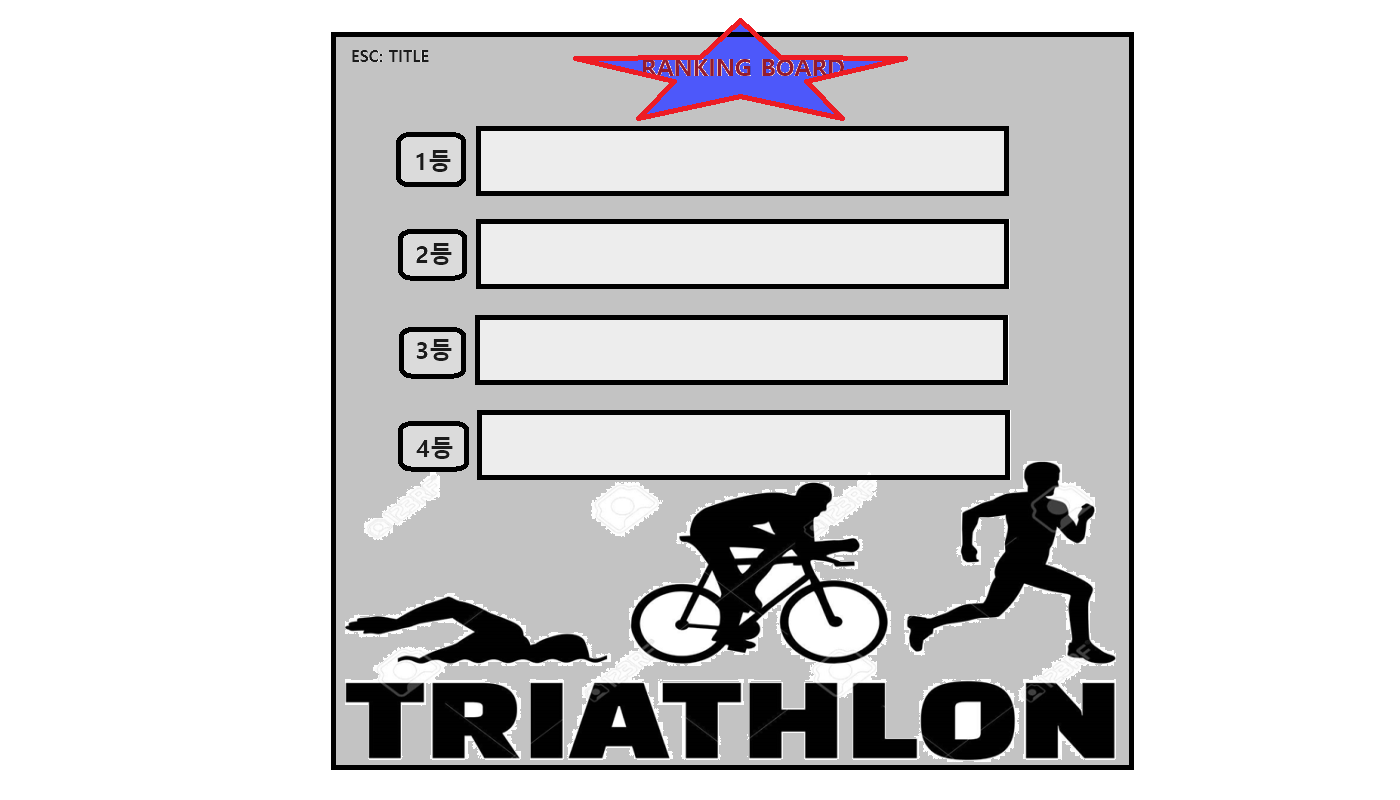
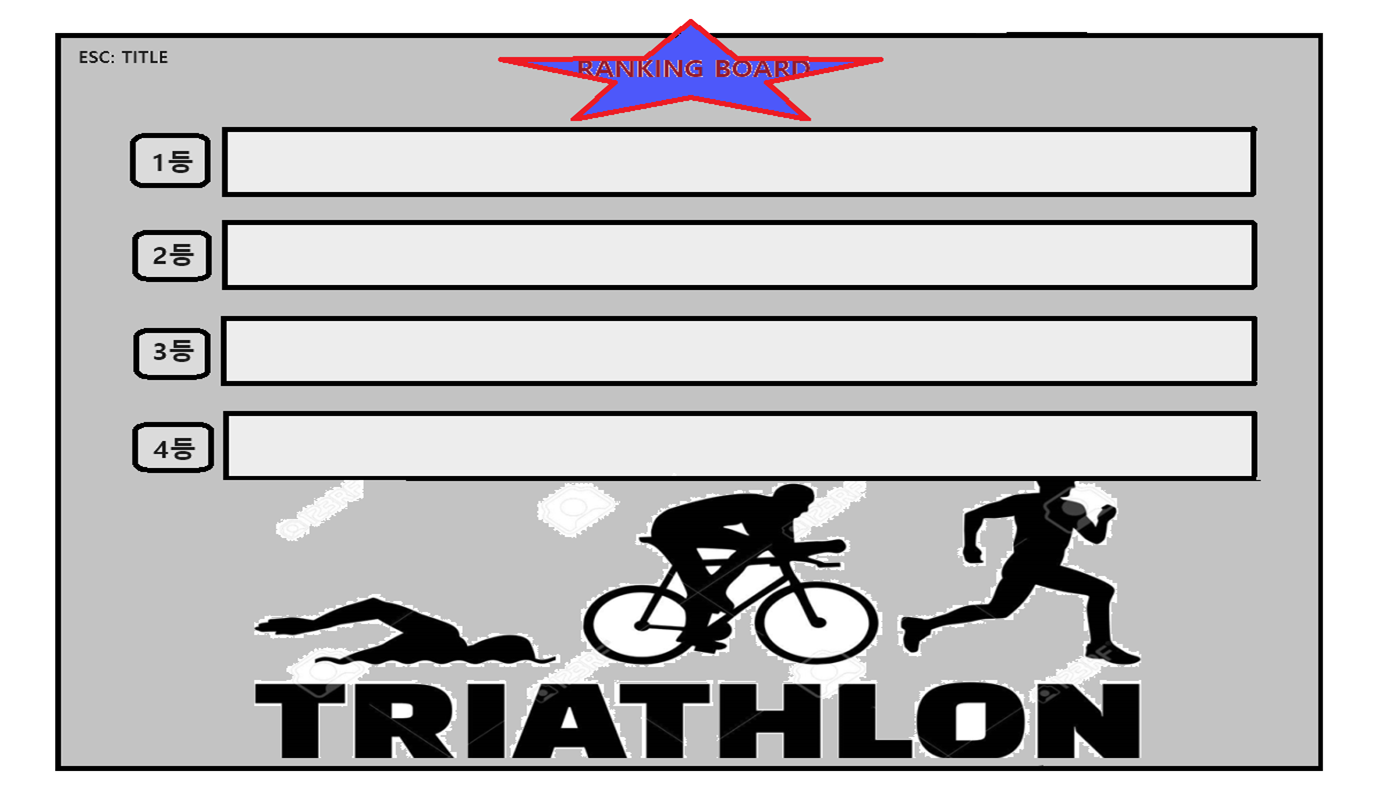
1.랭킹 보드의 크기 증가 2.플레이어의 기록이 랭킹 보드에 저장 3.랭킹보드는 합계의 오름차순으로 정렬 //Finish Make Ranking!!

diff --git a/rankingboard_mode.py b/rankingboard_mode.py
@@ -1,14 +1,16 @@
-from pico2d import get_events, load_image, clear_canvas, update_canvas
+from pico2d import get_events, load_image, clear_canvas, update_canvas, load_font
 from sdl2 import SDL_QUIT, SDL_KEYDOWN, SDLK_ESCAPE, SDLK_1
 
 import game_framework
+import game_world
 import title_mode
 
 
 def init():
     global image
+    global font
     image = load_image('./resource/rankingboard.png')
-
+    font = load_font('./resource/ENCR10B.TTF', 15)
 
 def finish():
     pass
@@ -21,6 +23,14 @@ def update():
 def draw():
     clear_canvas()
     image.draw(1400 / 2, 800 / 2)
+    if game_world.record_sum[0]:
+        font.draw(230, 635, f'(cycling:{game_world.record_sum[0][0]}, swimming:{game_world.record_sum[0][1]}, running:{game_world.record_sum[0][2]}, sum:{game_world.record_sum[0][3]})', (255, 0, 0))
+    if game_world.record_sum[1]:
+        font.draw(230, 540, f'(cycling:{game_world.record_sum[1][0]}, swimming:{game_world.record_sum[1][1]}, running:{game_world.record_sum[1][2]}, sum:{game_world.record_sum[1][3]})', (255, 0, 0))
+    if game_world.record_sum[2]:
+        font.draw(230, 445, f'(cycling:{game_world.record_sum[2][0]}, swimming:{game_world.record_sum[2][1]}, running:{game_world.record_sum[2][2]}, sum:{game_world.record_sum[2][3]})', (255, 0, 0))
+    if game_world.record_sum[3]:
+        font.draw(230, 350, f'(cycling:{game_world.record_sum[3][0]}, swimming:{game_world.record_sum[3][1]}, running:{game_world.record_sum[3][2]}, sum:{game_world.record_sum[3][3]})', (255, 0, 0))
     update_canvas()
 
 

diff --git a/level3/running_mode.py b/level3/running_mode.py
@@ -124,7 +124,7 @@ def handle_events():
         if event.type == SDL_QUIT:
             game_framework.quit()
         elif event.type == SDL_KEYDOWN and event.key == SDLK_ESCAPE:
-            game_world.delete_remove_time()
+            game_world.delete_record_time()
             game_framework.change_mode(title_mode)
         elif event.type == SDL_KEYDOWN and event.key == SDLK_p:
             game_framework.push_mode(pause_mode)
@@ -153,14 +153,6 @@ def init():
     game_world.add_object(zombie, 2)
     game_world.add_collision_pair('runner:zombie', None, zombie)
 
-    zombie = Zombie(1000, 430)
-    game_world.add_object(zombie, 2)
-    game_world.add_collision_pair('runner:zombie', None, zombie)
-
-    zombie = Zombie(1000, 50)
-    game_world.add_object(zombie, 2)
-    game_world.add_collision_pair('runner:zombie', None, zombie)
-
 def finish():
     game_world.remove_all_object('runner:splinter')
     game_world.remove_all_object('runner:zombie')
@@ -169,7 +161,6 @@ def finish():
 
 
 def update():
-    print(game_world.records)
     game_world.update()
     game_world.handle_collision()
     if runner.die:

diff --git a/gameclear_mode.py b/gameclear_mode.py
@@ -1,26 +1,32 @@
-from pico2d import get_events, load_image, clear_canvas, update_canvas
+from pico2d import get_events, load_image, clear_canvas, update_canvas, load_font
 from sdl2 import SDL_QUIT, SDL_KEYDOWN, SDLK_ESCAPE, SDLK_1
 
 import game_framework
+import game_world
 import title_mode
 
 
 def init():
     global image
+    global font
+    font = load_font('./resource/ENCR10B.TTF', 20)
     image = load_image('./resource/gameclear.png')
 
 
 def finish():
+    game_world.delete_record_time()
     pass
 
 
 def update():
+    print(game_world.record_sum)
     pass
 
 
 def draw():
     clear_canvas()
     image.draw(1400 / 2, 800 / 2)
+    font.draw(100, 580, f'(cycling:{game_world.records[0]}, swimming:{game_world.records[1]}, running:{game_world.records[2]}, sum:{game_world.records[3]})', (255, 0, 0))
     update_canvas()
 
 
@@ -30,6 +36,7 @@ def handle_events():
         if event.type == SDL_QUIT:
             game_framework.quit()
         elif event.type == SDL_KEYDOWN and event.key == SDLK_ESCAPE:
+            game_world.delete_record_time()
             game_framework.change_mode(title_mode)
 
 

diff --git a/level3/runner.py b/level3/runner.py
@@ -245,7 +245,9 @@ class Run:
         runner_move(runner)
         if runner.x >= 1350:
             runner.success = True
-            game_world.add_success_time(get_time() - runner_mode.check_time)
+            game_world.records.insert(2,get_time() - running_mode.check_time)
+            game_world.records.insert(3, (game_world.records[0] + game_world.records[1] + game_world.records[2]))
+            game_world.confirm_record_time()
         pass
 
     @staticmethod
@@ -329,8 +331,8 @@ class Runner:
 
     def handle_collision(self, group, other):
         if group == 'runner:splinter':
-            game_world.delete_remove_time()
+            game_world.delete_record_time()
             self.die = True
         if group == 'runner:zombie':
-            game_world.delete_remove_time()
+            game_world.delete_record_time()
             self.die = True

diff --git a/level1/cycler.py b/level1/cycler.py
@@ -239,7 +239,7 @@ class Run:
         cycler_move(cycler)
         if cycler.x >= 1300:
             cycler.success = True
-            game_world.add_success_time(get_time() - cycling_mode.check_time)
+            game_world.records.insert(0,get_time() - cycling_mode.check_time)
         pass
 
     @staticmethod
@@ -320,8 +320,8 @@ class Cycler:
 
     def handle_collision(self, group, other):
         if group == 'cycler:rock':
-            game_world.delete_remove_time()
+            game_world.delete_record_time()
             self.die = True
         if group == 'cycler:cliff':
-            game_world.delete_remove_time()
+            game_world.delete_record_time()
             self.die = True

diff --git a/game_world.py b/game_world.py
@@ -2,14 +2,23 @@ objects = [[] for _ in range(6)] #시각적인 관점에서의 월드
 records = []
 #충돌 관점의 월드
 collision_pairs = {} # { 'player:rock' : [ [player], [rock1, rock2 ...] ]}
+record_sum = [[9999.0,9999.0,9999.0,9999.0] for _ in range(4)]
+
 
 def add_object(o, depth=0):
     objects[depth].append(o)
 
 def add_success_time(time):
     records.append(time)
-def delete_remove_time():
+
+def delete_record_time():
     records.clear()
+
+def confirm_record_time():
+    record_sum.append([])
+    for i in records:
+        record_sum[-1].append(i)
+    record_sum.sort(key=lambda x: (x[3], x[0]))
 
 def add_objects(ol, depth=0):
     objects[depth] += ol

diff --git a/level2/swimmer.py b/level2/swimmer.py
@@ -244,7 +244,7 @@ class Run:
         swimmer_move(swimmer)
         if swimmer.x >= 1350:
             swimmer.success = True
-            game_world.add_success_time(get_time() - swimming_mode.check_time)
+            game_world.records.insert(1,get_time() - swimming_mode.check_time)
         pass
 
     @staticmethod
@@ -326,7 +326,7 @@ class Swimmer:
 
     def handle_collision(self, group, other):
         if group == 'swimmer:shark':
-            game_world.delete_remove_time()
+            game_world.delete_record_time()
             self.die = True
         if group == 'swimmer:swirl':
             self.swirl_speed = 0.3

diff --git a/level2/swimming_mode.py b/level2/swimming_mode.py
@@ -80,7 +80,7 @@ def handle_events():
         if event.type == SDL_QUIT:
             game_framework.quit()
         elif event.type == SDL_KEYDOWN and event.key == SDLK_ESCAPE:
-            game_world.delete_remove_time()
+            game_world.delete_record_time()
             game_framework.change_mode(title_mode)
         elif event.type == SDL_KEYDOWN and event.key == SDLK_p:
             game_framework.push_mode(pause_mode)
@@ -112,7 +112,6 @@ def finish():
 
 
 def update():
-    print(game_world.records)
     game_world.update()
     game_world.handle_collision()
     if swimmer.die:

diff --git a/level1/cycling_mode.py b/level1/cycling_mode.py
@@ -104,7 +104,7 @@ def handle_events():
         if event.type == SDL_QUIT:
             game_framework.quit()
         elif event.type == SDL_KEYDOWN and event.key == SDLK_ESCAPE:
-            game_world.delete_remove_time()
+            game_world.delete_record_time()
             game_framework.change_mode(title_mode)
         elif event.type == SDL_KEYDOWN and event.key == SDLK_p:
             game_framework.push_mode(pause_mode)

diff --git a/title_mode.py b/title_mode.py
@@ -2,6 +2,7 @@ from pico2d import get_events, load_image, clear_canvas, update_canvas
 from sdl2 import SDL_QUIT, SDL_KEYDOWN, SDLK_ESCAPE, SDLK_1, SDLK_2, SDLK_3
 
 import game_framework
+import game_world
 import howtoplay_mode
 from level1 import cycling_mode
 from level2 import swimming_mode
@@ -18,6 +19,8 @@ def finish():
 
 
 def update():
+    game_world.delete_record_time()
+    print(game_world.records)
     pass
 
 
